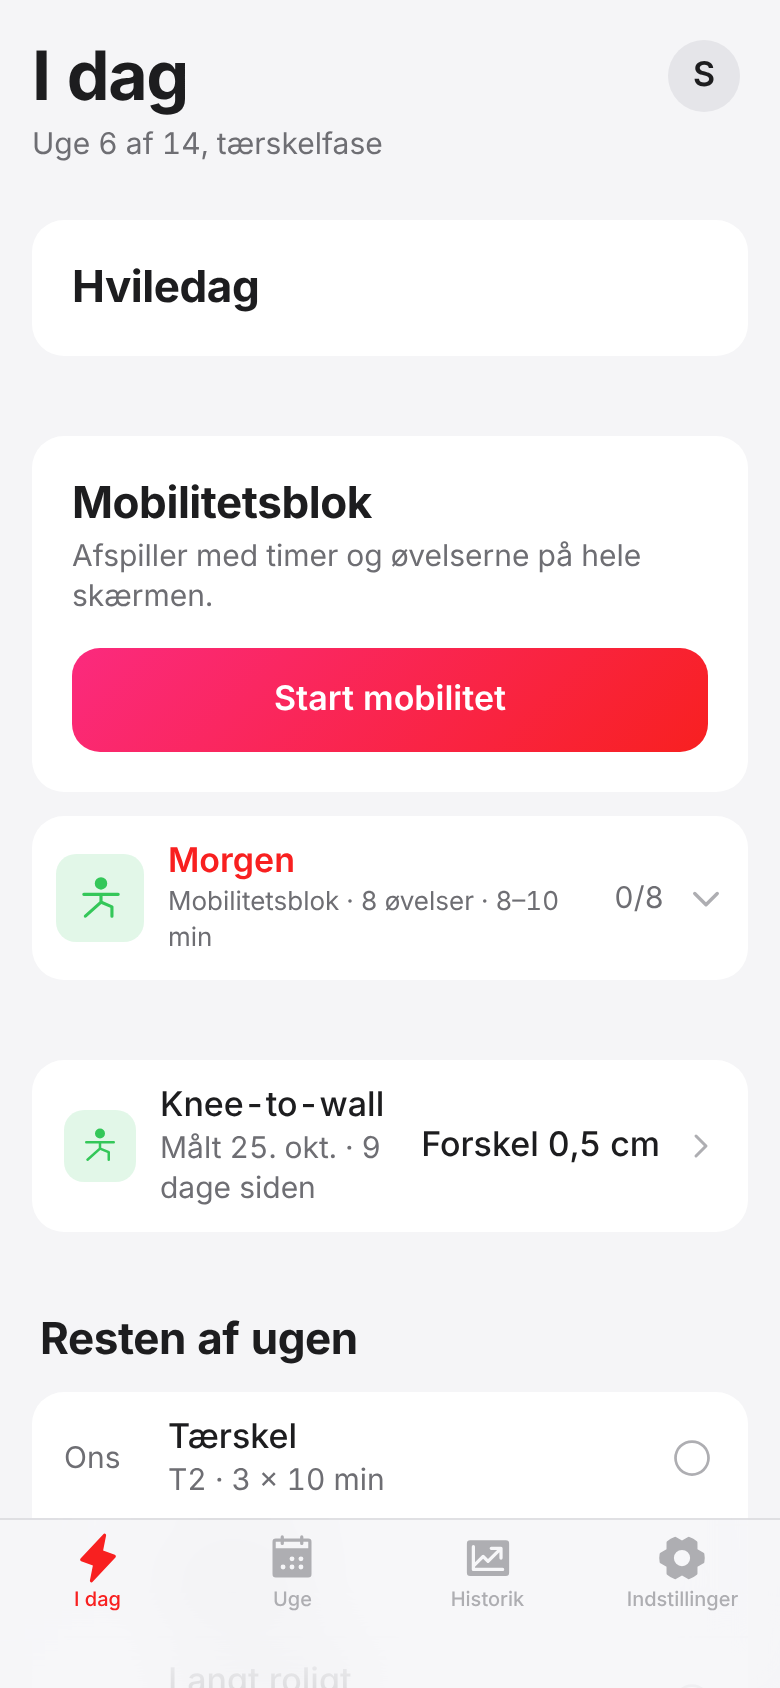
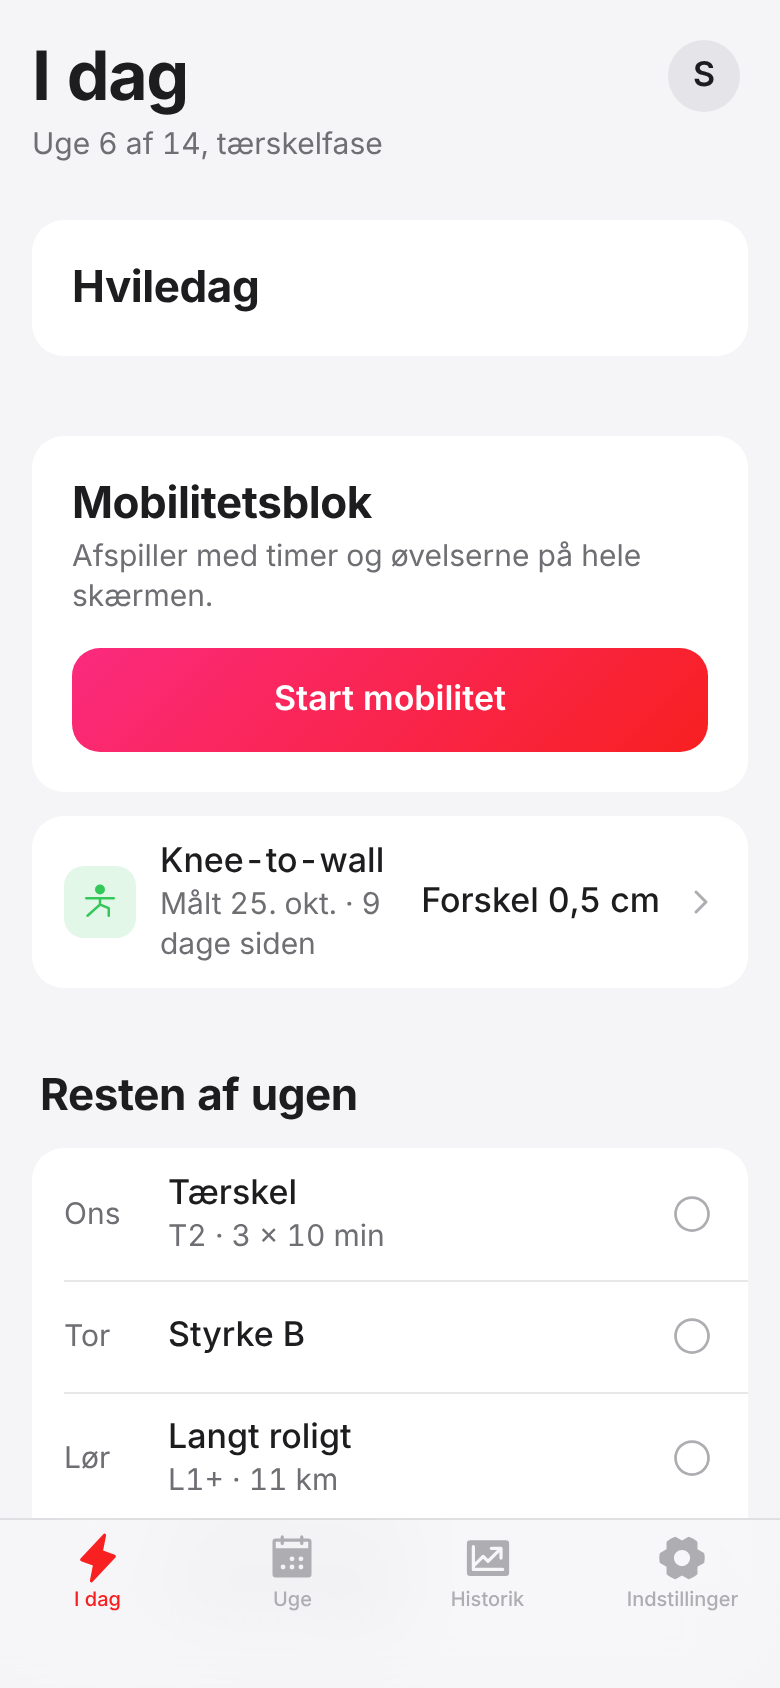
Fjern morgenrundens tjekliste fra I dag
Mobiliteten tages i afspilleren ("Start mobilitet"), så kortet "Morgen" med
tjeklisten vises ikke længere under den. Det vises kun, hvis planen ingen
mobilitetssession har.

Claude-Session: https://claude.ai/code/session_018pA3KamaBCbbzDCZKXK4Pv

diff --git a/src/pages/TodayPage.tsx b/src/pages/TodayPage.tsx
@@ -91,7 +91,7 @@ export function TodayPage() {
               <RestDayMobility session={mobility} week={week} workouts={workouts} />
             </Card>
           )}
-          {/* Med runder: afspilleren øverst (timer og øvelserne på hele skærmen), tjeklisten under. Ikke på styrkedage. */}
+          {/* Med runder: kun afspilleren (timer og øvelserne på hele skærmen). Ikke på styrkedage. */}
           {rounds && !strengthToday && mobility && (
             <Card className="mb-3">
               <h2 className="text-title">{sessionTitle(mobility)}</h2>
@@ -99,7 +99,8 @@ export function TodayPage() {
               <RestDayMobility session={mobility} week={week} workouts={workouts} primary />
             </Card>
           )}
-          {rounds && !strengthToday && <MobilityRounds plan={plan} date={today} collapsed={!!mobility} />}
+          {/* Tjeklisten for runden kun, hvis planen ingen mobilitetssession har at afspille. */}
+          {rounds && !strengthToday && !mobility && <MobilityRounds plan={plan} date={today} />}
           {todays.map((s) => (
             <TodayCard key={`${s.sessionId}-${s.plannedDay}-ovelser`} part="exercises" plan={plan} week={week} scheduled={s} session={getSession(plan, s.sessionId)!} workouts={workouts} groin={groin} last={last} />
           ))}

diff --git a/src/components/MobilityRounds.tsx b/src/components/MobilityRounds.tsx
@@ -10,7 +10,7 @@ const ROUND_TITLE: Record<MobilityRound, string> = { morgen: 'Morgen', aften: 'A
  * runde, uden for sessionerne. Den første runde, der ikke er lavet, står åben. Morgenrunden kan også
  * krydses af som opvarmning i en styrkesession; det er de samme afkrydsninger.
  */
-export function MobilityRounds({ plan, date, collapsed = false }: { plan: Plan; date: string; /** Alle runder foldet sammen (når afspilleren står over dem). */ collapsed?: boolean }) {
+export function MobilityRounds({ plan, date }: { plan: Plan; date: string }) {
   const checks = useRoundChecks(date);
   const rounds = plan.mobility?.schedule;
   if (!plan.mobility || !rounds || !checks) return null;
@@ -27,7 +27,7 @@ export function MobilityRounds({ plan, date, collapsed = false }: { plan: Plan; 
           checks={checks.filter((c) => c.round === round)}
           onToggle={(itemId, done) => void setRoundCheck(date, round, itemId, done)}
           progress={progress[i]}
-          defaultOpen={!collapsed && i === first}
+          defaultOpen={i === first}
         />
       ))}
     </section>
